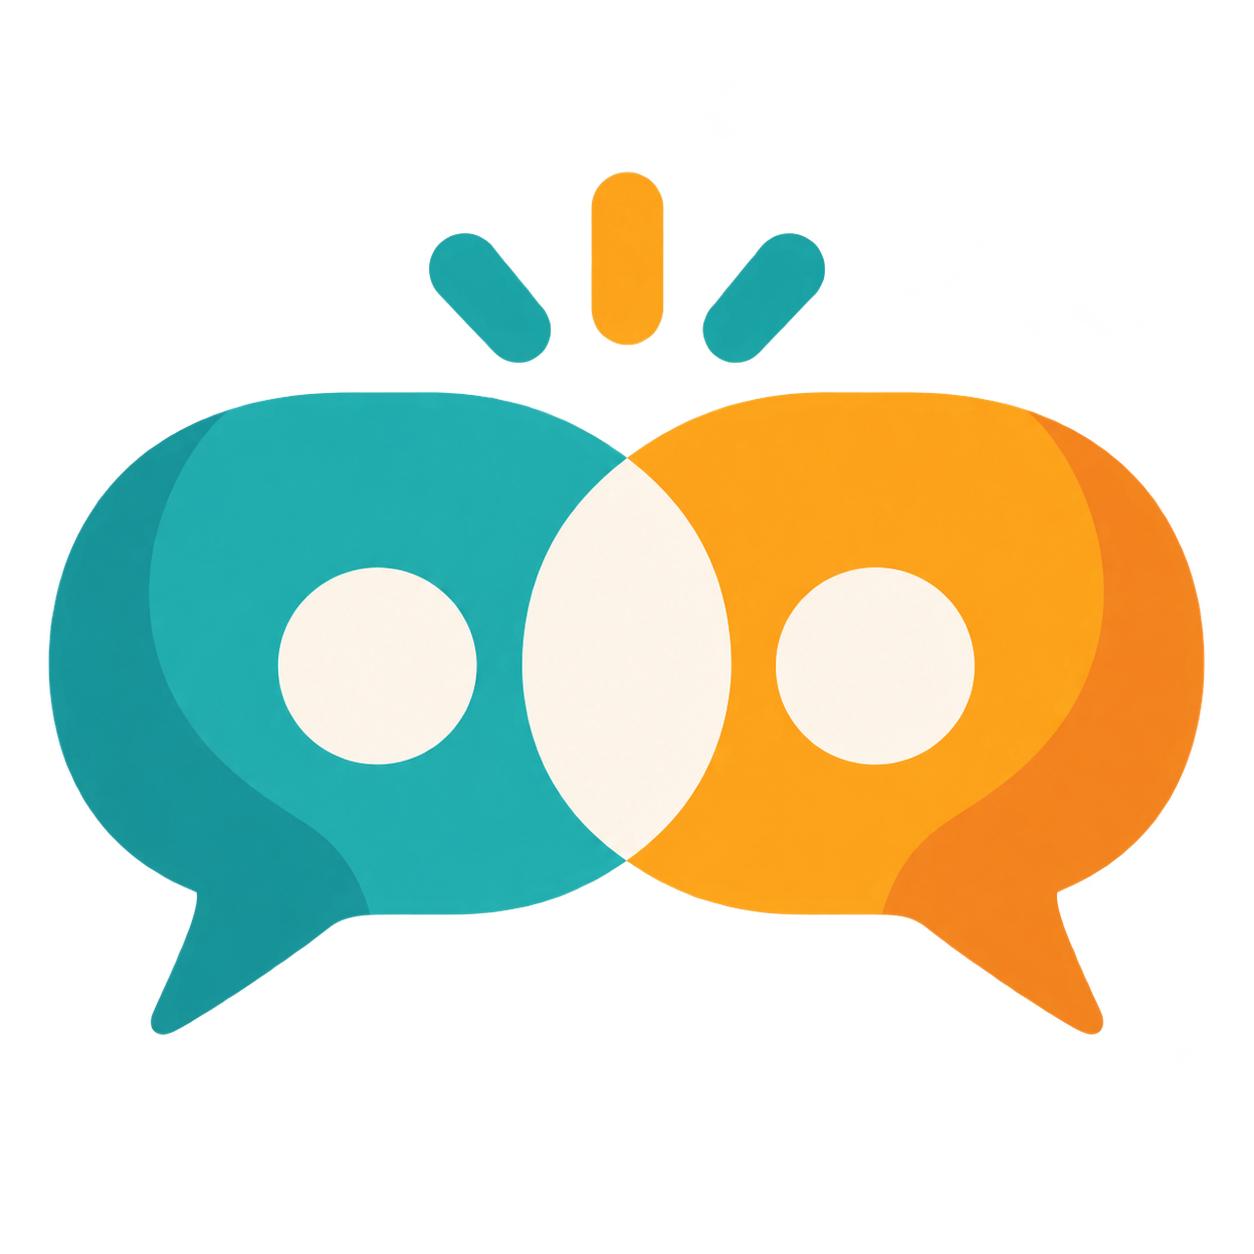
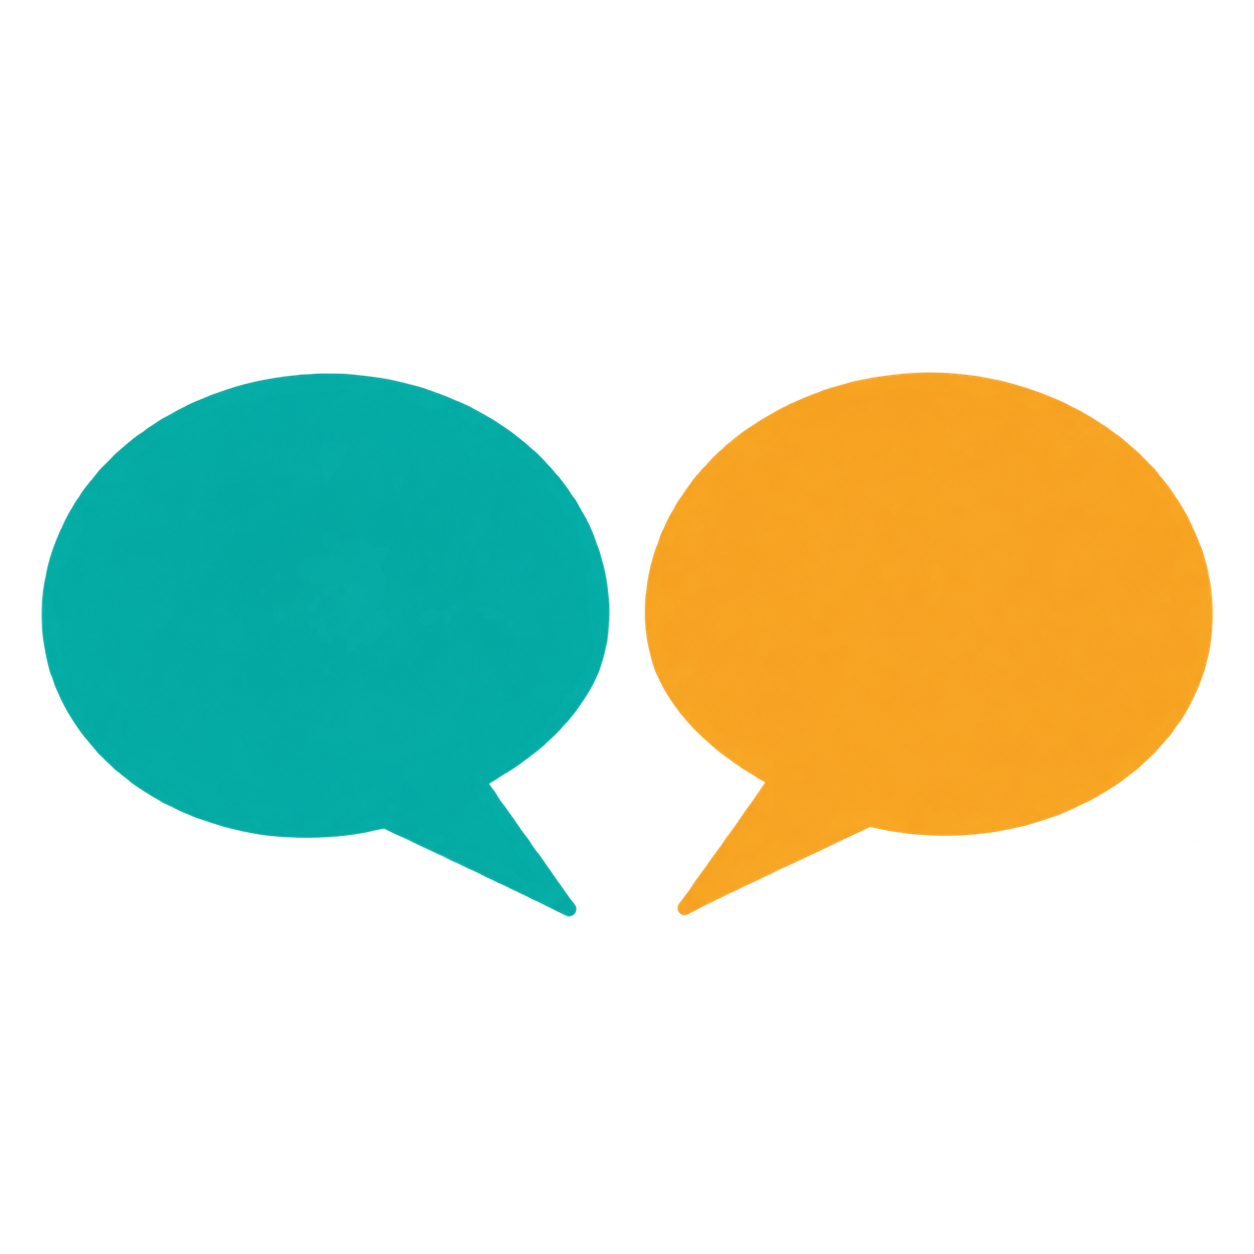
docs: add source-linked badges and debate mark

Changed region(s): [[0.0311, 0.1866, 0.9641, 0.8397], [0.622, 0.4354, 0.7775, 0.622], [0.4665, 0.1244, 0.5287, 0.2799]]

diff --git a/README.md b/README.md
@@ -1,11 +1,20 @@
 <h1 align="center">
-  <img src="assets/bantr-v2-mark.png" alt="Two overlapping teal and amber speech bubbles" width="200">
+  <img src="assets/bantr-v2-mark.png" alt="Two speech bubbles face each other, one teal and one amber" width="200">
   Bantr v2
 </h1>
 
 <h4 align="center">A proof of concept for voice debates, transcripts, analysis, and contextual chat.</h4>
 
-<p align="center"><strong>Python 3.12+</strong> · <strong>FastAPI</strong> · <strong>React 18</strong> · <strong>Vite</strong></p>
+<p align="center">
+  <a href="https://github.com/AbhiramVSA/bantr-v2/blob/bdef51ebfba6b082e4c46d99ac0dfe4301a74db2/bantr/pyproject.toml"><img src="https://img.shields.io/badge/Python-3.12%2B-3776AB?style=flat-square&amp;logo=python&amp;logoColor=white" alt="Python 3.12 or newer, from pyproject.toml"></a>
+  <a href="https://github.com/AbhiramVSA/bantr-v2/blob/bdef51ebfba6b082e4c46d99ac0dfe4301a74db2/bantr/pyproject.toml"><img src="https://img.shields.io/badge/FastAPI-API-009688?style=flat-square&amp;logo=fastapi&amp;logoColor=white" alt="FastAPI backend, from pyproject.toml"></a>
+  <a href="https://github.com/AbhiramVSA/bantr-v2/blob/bdef51ebfba6b082e4c46d99ac0dfe4301a74db2/bantr/frontend/package.json"><img src="https://img.shields.io/badge/React-18-61DAFB?style=flat-square&amp;logo=react&amp;logoColor=black" alt="React 18 frontend, from package.json"></a>
+</p>
+
+<p align="center">
+  <a href="https://github.com/AbhiramVSA/bantr-v2/blob/bdef51ebfba6b082e4c46d99ac0dfe4301a74db2/bantr/frontend/package.json"><img src="https://img.shields.io/badge/Vite-6-646CFF?style=flat-square&amp;logo=vite&amp;logoColor=white" alt="Vite 6 frontend, from package.json"></a>
+  <a href="https://github.com/AbhiramVSA/bantr-v2/blob/bdef51ebfba6b082e4c46d99ac0dfe4301a74db2/bantr/compose.yml"><img src="https://img.shields.io/badge/PostgreSQL-16%20%2B%20pgvector-4169E1?style=flat-square&amp;logo=postgresql&amp;logoColor=white" alt="PostgreSQL 16 with pgvector, from compose.yml"></a>
+</p>
 
 <p align="center"><a href="#key-features">Key Features</a> · <a href="#architecture">Architecture</a> · <a href="#how-to-use">How to Use</a></p>
 
